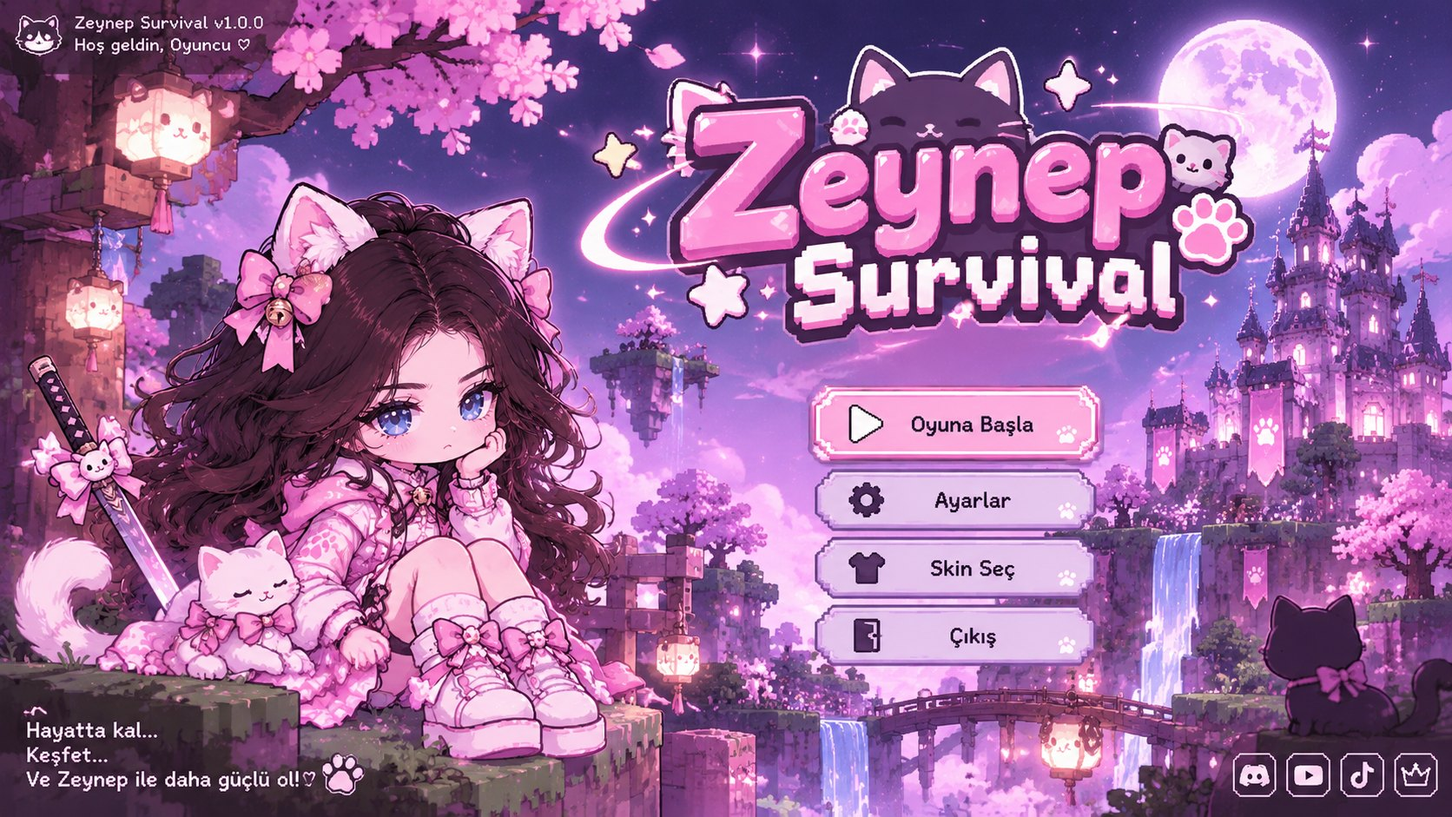
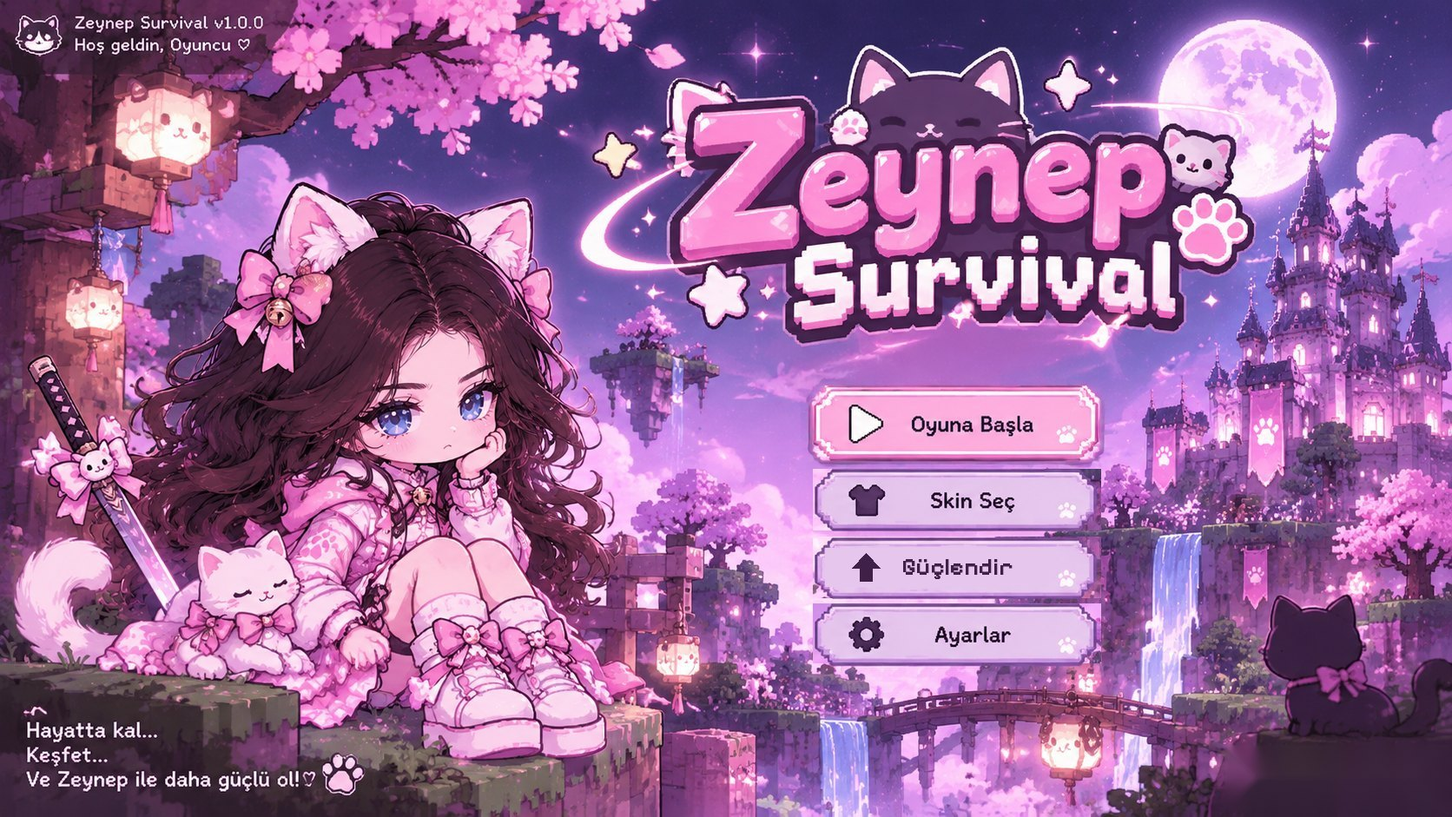
Zeynep Survival: menü (Oyna/Skin/Güçlendir/Ayarlar), yön düzeltmesi, büyük XP kalpleri, 15 dk + 5 dk'da bir patron + 3 dk'da bir yeni yaratık, 4+4 slot, kılıç evrimi
Claude-Session: https://claude.ai/code/session_01NZ7ZfsBb1S5Q1J3hg7XdBE

Changed region(s): [[0.5598, 0.5547, 0.7775, 0.8321], [0.8397, 0.8937, 0.9952, 0.9862]]

diff --git a/survivor.html b/survivor.html
@@ -17,7 +17,7 @@ canvas{position:fixed;inset:0;width:100%;height:100%;display:block}
 .hot{position:absolute;left:55.8%;width:19.8%;border-radius:1.2vmin;transition:transform .12s,box-shadow .12s,background .12s}
 .hot:hover{background:rgba(255,255,255,.18);box-shadow:0 0 22px rgba(255,170,220,.9);transform:scale(1.03)}
 .hot:active{transform:scale(.97)}
-#hPlay{top:47.6%;height:8.6%}#hSet{top:57.8%;height:7%}#hSkin{top:66.1%;height:7%}#hExit{top:74.4%;height:7%}
+#hPlay{top:47.6%;height:8.6%}#hSkin{top:57.8%;height:7%}#hUp{top:66.1%;height:7%}#hSet{top:74.4%;height:7%}
 #tTop{position:absolute;top:2%;right:1.5%;display:flex;gap:.8vmin;flex-wrap:wrap;justify-content:flex-end}
 .pill{background:rgba(255,240,250,.92);color:#b0407a;font-weight:700;font-size:clamp(11px,1.7vmin,18px);padding:.8vmin 1.6vmin;border-radius:99px;border:2px solid #f6a8cf;box-shadow:0 3px 0 #d980ad}
 .pill:active{transform:translateY(2px);box-shadow:0 1px 0 #d980ad}
@@ -89,10 +89,10 @@ canvas{position:fixed;inset:0;width:100%;height:100%;display:block}
 <div id="title">
   <div id="tbox">
     <button class="hot" id="hPlay" aria-label="Oyuna Başla"></button>
-    <button class="hot" id="hSet" aria-label="Ayarlar"></button>
     <button class="hot" id="hSkin" aria-label="Skin Seç"></button>
-    <button class="hot" id="hExit" aria-label="Çıkış"></button>
-    <div id="tTop"><span class="pill" id="tGold">🪙 0</span><button class="pill" id="tUp">⬆ Güçlendir</button></div>
+    <button class="hot" id="hUp" aria-label="Güçlendir"></button>
+    <button class="hot" id="hSet" aria-label="Ayarlar"></button>
+    <div id="tTop"><span class="pill" id="tGold">🪙 0</span><button class="pill" id="hExit">← Siteye dön</button></div>
     <div id="tBest"></div>
   </div>
 </div>
@@ -222,8 +222,8 @@ function bossSprite(src, r) {
   const h = document.createElement('canvas'); h.width = h.height = s; const hg = h.getContext('2d'); hg.drawImage(c, 0, 0); hg.globalCompositeOperation = 'source-atop'; hg.fillStyle = 'rgba(255,255,255,.7)'; hg.fillRect(0, 0, s, s);
   return cache[k] = { c, h, s };
 }
-// pembe kedi patisi
-function paw(g, x, y, s, a = 1) { g.save(); g.globalAlpha *= a; g.fillStyle = '#ff8ac2'; g.strokeStyle = '#fff'; g.lineWidth = Math.max(2, s * .06);
+// pembe kedi patisi (altın = evrim)
+function paw(g, x, y, s, a = 1, gold) { g.save(); g.globalAlpha *= a; g.fillStyle = gold ? '#ffc93c' : '#ff8ac2'; if (gold) { g.shadowColor = '#ffb000'; g.shadowBlur = 16; } g.strokeStyle = '#fff'; g.lineWidth = Math.max(2, s * .06);
   g.beginPath(); g.ellipse(x, y + s * .18, s * .32, s * .26, 0, 0, 7); g.fill(); g.stroke();
   for (const [dx, dy, r] of [[-.36, -.12, .13], [-.13, -.33, .14], [.13, -.33, .14], [.36, -.12, .13]]) { g.beginPath(); g.ellipse(x + dx * s, y + dy * s, r * s, r * s * 1.15, dx * .8, 0, 7); g.fill(); g.stroke(); }
   g.fillStyle = 'rgba(255,255,255,.5)'; g.beginPath(); g.ellipse(x - s * .1, y + s * .1, s * .08, s * .05, -.5, 0, 7); g.fill(); g.restore(); }
@@ -232,26 +232,28 @@ function emo(ch, size) { const k = ch + size; if (emojiC[k]) return emojiC[k]; c
 
 /* =================== AYARLAR =================== */
 const ENEMIES = {
-  slime:  { kind: 'slime',  r: 17, hp: 9,  spd: 62,  dmg: 5,  xp: 1, hues: [330, 200, 140, 50] },
-  ghost:  { kind: 'ghost',  r: 16, hp: 7,  spd: 108, dmg: 5,  xp: 1, hues: [280, 200] },
-  bat:    { kind: 'bat',    r: 14, hp: 6,  spd: 128, dmg: 5,  xp: 1, hues: [275, 300] },
-  mantar: { kind: 'mantar', r: 26, hp: 42, spd: 44,  dmg: 12, xp: 4, hues: [0, 330, 280] },
-  kedi:   { kind: 'kedi',   r: 21, hp: 26, spd: 96,  dmg: 11, xp: 6, hues: [0] },
+  slime:  { kind: 'slime',  r: 17, hp: 18,  spd: 62,  dmg: 5,  xp: 1, hues: [330, 200, 140, 50] },
+  ghost:  { kind: 'ghost',  r: 16, hp: 16,  spd: 108, dmg: 5,  xp: 1, hues: [280, 200] },
+  bat:    { kind: 'bat',    r: 14, hp: 14,  spd: 128, dmg: 5,  xp: 1, hues: [275, 300] },
+  mantar: { kind: 'mantar', r: 26, hp: 90, spd: 44,  dmg: 12, xp: 4, hues: [0, 330, 280] },
+  kedi:   { kind: 'kedi',   r: 21, hp: 60, spd: 96,  dmg: 11, xp: 6, hues: [0] },
 };
 const BOSSES = [
-  { t: 180, ad: 'KELERDY',       img: 'tk_kelerdy.jpg',       hp: 1800,  r: 58, spd: 62, dmg: 16 },
-  { t: 360, ad: 'BEBEK ERDİ',    img: 'tk_erdi_bebek.jpg',    hp: 6000,  r: 64, spd: 76, dmg: 22 },
-  { t: 540, ad: 'DİKTATÖR ERDİ', img: 'tk_erdi_diktator.jpg', hp: 16000, r: 74, spd: 70, dmg: 28 },
+  { t: 300, ad: 'KELERDY',       img: 'tk_kelerdy.jpg',       hp: 5000,  r: 60, spd: 66, dmg: 18 },
+  { t: 600, ad: 'BEBEK ERDİ',    img: 'tk_erdi_bebek.jpg',    hp: 18000, r: 68, spd: 78, dmg: 26 },
+  { t: 900, ad: 'DİKTATÖR ERDİ', img: 'tk_erdi_diktator.jpg', hp: 45000, r: 80, spd: 72, dmg: 34, final: true },
 ];
-const WIN_T = 600;
+const WIN_T = 900;                     // 15 dk: son patron gelir, onu yenince kazanırsın
+// her 3 dakikada yeni yaratık türü
+const NEWTYPES = [{ t: 0, k: 'slime' }, { t: 180, k: 'ghost', ad: '👻 Hayaletler geldi!' }, { t: 360, k: 'bat', ad: '🦇 Yarasalar geldi!' }, { t: 540, k: 'mantar', ad: '🍄 Mantarlar geldi!' }, { t: 720, k: 'kedi', ad: '🐈⬛ Kara kediler geldi!' }];
 const WEAPONS = {
-  katana:  { ad: 'Pembe Katana',   ic: '🗡', d: ['Baktığın yöne pembe kılıç savurur', '+%30 hasar', 'Arkaya da savurur', '+%30 genişlik, daha sık', 'Çift kesiş, +%50 hasar'] },
-  kalp:    { ad: 'Kalp Atışı',     ic: '💗', d: ['En yakın düşmana kalp fırlatır', '+1 kalp', '+%30 hasar, daha hızlı', '+1 kalp, delip geçer', '+2 kalp, çok hızlı'] },
-  ordek:   { ad: 'Ördek Sürüsü',   ic: '🐥', d: ['Etrafında dönen ördekçikler', '+1 ördek', '+%40 hasar, daha hızlı döner', '+1 ördek, daha geniş', '+1 ördek, +%50 hasar'] },
-  pati:    { ad: 'Kedi Patisi',    ic: '🐾', d: ['Rastgele düşmana dev pati iner', '+%30 alan', '+1 pati', '+%50 hasar, daha sık', '+1 pati, kocaman pati'] },
-  sevgi:   { ad: 'Sevgi Halkası',  ic: '💞', d: ['Etrafındaki düşmanlara sürekli hasar', '+%25 alan', '+%50 hasar', '+%25 alan, düşmanları iter', '+%60 hasar, dev halka'] },
-  yildiz:  { ad: 'Yıldız Yağmuru', ic: '⭐', d: ['Rastgele düşmanlara yıldız düşer', '+1 yıldız', '+%40 hasar', '+2 yıldız, daha sık', '+2 yıldız, +%60 hasar'] },
-  kedicik: { ad: 'Kedi Dostu',     ic: '🐱', d: ['Düşmanlara saldıran kedicik', '+%40 hasar', '+1 kedicik', 'Daha hızlı koşar ve ısırır', '+1 kedicik, +%50 hasar'] },
+  katana:  { ad: 'Pembe Katana',   ic: '🗡', d: ['En yakın düşmana pembe kılıç savurur', '2 kılıç: sağa ve sola, daha uzun', '3 kılıç: sağ, sol ve yukarı/aşağı', '4 kılıç: dört yöne, daha büyük ve sık', '✨ EVRİM: Altın Katana — dev, çok hızlı, çok güçlü'] },
+  kalp:    { ad: 'Kalp Atışı',     ic: '💗', d: ['En yakın düşmana kalp fırlatır', '+1 kalp, daha büyük', '+%30 hasar, daha hızlı', '+1 kalp, delip geçer', '✨ EVRİM: Altın Kalpler — 5 dev kalp, delip geçer'] },
+  ordek:   { ad: 'Ördek Sürüsü',   ic: '🐥', d: ['Etrafında dönen ördekçik', '+1 ördek, daha büyük', '+%40 hasar, daha hızlı döner', '+1 ördek, daha geniş', '✨ EVRİM: Altın Ördekler — dev ve çok güçlü'] },
+  pati:    { ad: 'Kedi Patisi',    ic: '🐾', d: ['Rastgele düşmana dev pati iner', '+%30 alan', '+1 pati', '+%50 hasar, daha sık', '✨ EVRİM: Altın Pati — 3 kocaman pati'] },
+  sevgi:   { ad: 'Sevgi Halkası',  ic: '💞', d: ['Etrafındaki düşmanlara sürekli hasar', '+%25 alan', '+%50 hasar', '+%25 alan, düşmanları iter', '✨ EVRİM: Mor Sevgi — dev halka, +%60 hasar'] },
+  yildiz:  { ad: 'Yıldız Yağmuru', ic: '⭐', d: ['Rastgele düşmanlara yıldız düşer', '+1 yıldız, daha büyük', '+%40 hasar', '+2 yıldız, daha sık', '✨ EVRİM: Gökkuşağı Yağmuru — 7 dev yıldız'] },
+  kedicik: { ad: 'Kedi Dostu',     ic: '🐱', d: ['Düşmanlara saldıran kedicik', '+%40 hasar, daha büyük', '+1 kedicik', 'Daha hızlı koşar ve ısırır', '✨ EVRİM: Aslan Kediler — 3 dev kedi'] },
 };
 const PASSIVES = {
   guc:   { ad: 'Kurdele',       ic: '🎀', d: '+%12 hasar' },
@@ -261,7 +263,7 @@ const PASSIVES = {
   sogum: { ad: 'Altın Çan',     ic: '🔔', d: 'Saldırılar %8 daha sık' },
   zirh:  { ad: 'Oyuncak Ayı',   ic: '🧸', d: 'Alınan hasar -2' },
 };
-const MAXLV = 5, MAXW = 6, MAXP = 6;
+const MAXLV = 5, MAXW = 4, MAXP = 4;   // en fazla 4 yetenek + 4 eşya, her biri 5 seviye
 const META = [
   { id: 'can',   ic: '💖', ad: 'Can',        d: '+10 maksimum can',      max: 5, base: 40 },
   { id: 'guc',   ic: '🗡', ad: 'Güç',        d: '+%6 hasar',             max: 5, base: 60 },
@@ -347,7 +349,7 @@ const gkey = (x, y) => ((x / GRID) | 0) * 100000 + ((y / GRID) | 0);
 function startGame() {
   P = { x: 0, y: 0, r: 20, skin: M.skin,
     maxHp: 100 + 10 * mlv('can'), hp: 0, spd: 215 * (1 + .04 * mlv('hiz')), dmgMul: 1 + .06 * mlv('guc'), magnet: 90 * (1 + .15 * mlv('mik')), xpMul: 1 + .08 * mlv('xp'),
-    lv: 1, xp: 0, next: 3, fx: 1, fy: 0, face: 1, inv: 0, revive: mlv('dir'), w: { katana: 1 }, p: {}, cds: {}, hitT: 0, walk: 0 };
+    lv: 1, xp: 0, next: 4, fx: 1, fy: 0, face: 1, inv: 0, revive: mlv('dir'), w: { katana: 1 }, p: {}, cds: {}, hitT: 0, walk: 0 };
   P.hp = P.maxHp;
   enemies = []; projs = []; gems = []; picks = []; fx = []; texts = []; pets = []; T = 0; kills = 0; coins = 0; spawnAcc = 0; bossIdx = 0; curBoss = null; cam = { x: 0, y: 0 }; levelQueue = 0; won = false;
   M.oyun++; saveM();
@@ -365,23 +367,26 @@ const magNow = () => P.magnet * (1 + .35 * pl('mik'));
 /* =================== DÜŞMANLAR =================== */
 function spawnEnemy(type, boss) {
   const a = Math.random() * Math.PI * 2, d = Math.hypot(W, H) / 2 + 60;
-  const x = P.x + Math.cos(a) * d, y = P.y + Math.sin(a) * d, m = 1 + T / 75;
+  const x = P.x + Math.cos(a) * d, y = P.y + Math.sin(a) * d, m = 1 + T / 70 + Math.pow(T / 450, 2) * 2.5;
   let e;
   if (boss) e = { x, y, r: boss.r, hp: boss.hp * (1 + T / 900), spd: boss.spd, dmg: boss.dmg, xp: 60, boss: boss.ad, img: boss.img };
-  else { const K = ENEMIES[type]; e = { x, y, r: K.r, hp: K.hp * m, spd: K.spd * (1 + T / 1500), dmg: K.dmg * (1 + T / 600), xp: K.xp, kind: K.kind, hue: K.hues[(Math.random() * K.hues.length) | 0], ph: Math.random() * 7 }; }
+  else { const K = ENEMIES[type]; e = { x, y, r: K.r, hp: K.hp * m, spd: K.spd * (1 + T / 2500), dmg: K.dmg * (1 + T / 800), xp: K.xp, kind: K.kind, hue: K.hues[(Math.random() * K.hues.length) | 0], ph: Math.random() * 7 }; }
   e.max = e.hp; e.kx = 0; e.ky = 0; e.flash = 0; e.hitCd = {};
   enemies.push(e); return e;
 }
 function spawner(dt) {
-  const rate = .5 + T / 50 + Math.pow(T / 180, 2) * 4;
+  const finalUp = bossIdx >= BOSSES.length;            // son patron sahnede: sadece az sayıda yardımcı
+  const rate = (.8 + T / 28 + Math.pow(T / 240, 2) * 6) * (finalUp ? .25 : 1);
   spawnAcc += rate * dt;
-  const cap = 140 + T / 2.5;
+  const cap = 220 + T / 1.6;
+  const types = NEWTYPES.filter(n => T >= n.t).map(n => n.k);
   while (spawnAcc >= 1) { spawnAcc--; if (enemies.length > cap) continue;
-    const r = Math.random(); let k = 'slime';
-    if (T > 40 && r < .2) k = 'ghost'; if (T > 90 && r > .2 && r < .32) k = 'bat'; if (T > 120 && r > .84) k = 'mantar'; if (T > 270 && r > .94) k = 'kedi';
+    // en yeni tür daha sık, eskiler de gelmeye devam
+    const r = Math.random(), k = r < .35 ? types[types.length - 1] : types[(Math.random() * types.length) | 0];
     spawnEnemy(k); }
-  if (Math.floor((T - dt) / 60) !== Math.floor(T / 60) && T > 5) { const n = 14 + T / 10; for (let i = 0; i < n; i++) { const e = spawnEnemy(T > 240 ? 'bat' : 'slime'); const a = i / n * Math.PI * 2, d = Math.hypot(W, H) / 2 + 40; e.x = P.x + Math.cos(a) * d; e.y = P.y + Math.sin(a) * d; } toast('💢 Etrafın sarıldı!'); }
-  if (bossIdx < BOSSES.length && T >= BOSSES[bossIdx].t) { const b = BOSSES[bossIdx++]; curBoss = spawnEnemy(null, b); toast(`👑 ${b.ad} GELDİ!`); chime([392, 330, 262, 196], 120, 'square', .04); }
+  for (const n of NEWTYPES) if (n.ad && T - dt < n.t && T >= n.t) { toast(n.ad); chime([523, 659, 523, 784], 90, 'square', .03); }
+  if (Math.floor((T - dt) / 60) !== Math.floor(T / 60) && T > 5 && !finalUp) { const n = 20 + T / 8, ty = types[types.length - 1]; for (let i = 0; i < n; i++) { const e = spawnEnemy(ty); const a = i / n * Math.PI * 2, d = Math.hypot(W, H) / 2 + 40; e.x = P.x + Math.cos(a) * d; e.y = P.y + Math.sin(a) * d; } toast('💢 Etrafın sarıldı!'); }
+  if (bossIdx < BOSSES.length && T >= BOSSES[bossIdx].t) { const b = BOSSES[bossIdx++]; curBoss = spawnEnemy(null, b); curBoss.final = !!b.final; toast(b.final ? `👑 SON PATRON: ${b.ad}!` : `👑 ${b.ad} GELDİ!`); chime([392, 330, 262, 196], 120, 'square', .04); }
 }
 
 /* =================== HASAR =================== */
@@ -397,6 +402,7 @@ function kill(e) {
   e.dead = true; kills++;
   gems.push({ x: e.x, y: e.y, v: e.xp, ph: Math.random() * 7 });
   const r = Math.random();
+  if (e.final && !won) { won = true; setTimeout(() => { if (state === 'play' || state === 'lvup') gameOver(true); }, 1200); }
   if (e.boss) { picks.push({ x: e.x, y: e.y, k: 'sandik' }); for (let i = 0; i < 14; i++) picks.push({ x: e.x + (Math.random() - .5) * 100, y: e.y + (Math.random() - .5) * 100, k: 'coin' }); if (e === curBoss) curBoss = null; chime([523, 659, 784, 1046, 1318], 90); }
   else if (r < .025) picks.push({ x: e.x, y: e.y, k: 'coin' });
   else if (r < .029) picks.push({ x: e.x, y: e.y, k: 'cilek' });
@@ -412,37 +418,41 @@ function onScreen() { return enemies.filter(e => !e.dead && Math.abs(e.x - P.x) 
 function cdReady(id, base) { P.cds[id] = (P.cds[id] || 0) - DT; if (P.cds[id] > 0) return false; P.cds[id] = base * cdM(); return true; }
 function near(x, y) { const out = []; const cx = (x / GRID) | 0, cy = (y / GRID) | 0; for (let i = -1; i <= 1; i++) for (let j = -1; j <= 1; j++) { const a = grid.get((cx + i) * 100000 + (cy + j)); if (a) for (const e of a) out.push(e); } return out; }
 const aoe = (x, y, rad, dmg, push) => { for (const e of enemies) { if (e.dead) continue; const dx = e.x - x, dy = e.y - y, d = Math.hypot(dx, dy) || 1; if (d < rad + e.r) hurt(e, dmg, dx / d * push, dy / d * push); } };
-function katanaHit(dmg, reach, dirs) {
-  for (const s of dirs) { const dx = P.face * s; fx.push({ k: 'slash', x: P.x, y: P.y, dx, w: reach, t: .25 });
-    for (const e of enemies) { if (e.dead) continue; const rx = (e.x - P.x) * dx, ry = Math.abs(e.y - P.y); if (rx > -15 && rx < reach + e.r && ry < 60 + e.r) hurt(e, dmg, dx * 110, 0); } }
-  snd(1200, .12, 'sine', .03, .5);
+const KAT = { dmg: [0, 20, 24, 28, 32, 46], reach: [0, 140, 160, 175, 195, 250], cd: [0, 1.1, 1.0, .95, .85, .6], wide: [0, 55, 60, 66, 72, 95] };
+function katanaHit(l) {
+  const t = nearest(300), sx = t ? (t.x >= P.x ? 1 : -1) : P.face, sy = t ? (t.y >= P.y ? 1 : -1) : 1;
+  // seviye = kılıç sayısı (en çok 4): sağ/sol, sonra yukarı/aşağı
+  const dirs = [[sx, 0], [-sx, 0], [0, sy], [0, -sy]].slice(0, Math.min(4, l));
+  const reach = KAT.reach[l], wide = KAT.wide[l], dmg = KAT.dmg[l], gold = l >= 5;
+  for (const [dx, dy] of dirs) { fx.push({ k: 'slash', x: P.x, y: P.y - 8, dx, dy, w: reach, h: wide, gold, t: .25 });
+    for (const e of enemies) { if (e.dead) continue; const ex = e.x - P.x, ey = e.y - P.y + 8, along = ex * dx + ey * dy, side = Math.abs(ex * dy - ey * dx);
+      if (along > -15 && along < reach + e.r && side < wide + e.r) hurt(e, dmg, dx * 120, dy * 120); } }
+  snd(gold ? 900 : 1200, .12, 'sine', .03, .5);
 }
 let katanaQ = 0;
 function weapons(dt) {
   const L = P.w;
-  if (L.katana) { const l = L.katana, dmg = [0, 15, 20, 20, 20, 30][l], reach = l >= 4 ? 170 : 135, dirs = l >= 3 ? [1, -1] : [1];
-    if (katanaQ > 0) { katanaQ -= dt; if (katanaQ <= 0) katanaHit(dmg, reach, dirs); }
-    if (cdReady('katana', l >= 4 ? 1.0 : 1.25)) { katanaHit(dmg, reach, dirs); if (l >= 5) katanaQ = .18; } }
+  if (L.katana) { const l = L.katana; if (cdReady('katana', KAT.cd[l])) katanaHit(l); }
   if (L.kalp) { const l = L.kalp; if (cdReady('kalp', [0, .9, .85, .75, .7, .55][l])) {
     const n = [0, 1, 2, 2, 3, 5][l], dmg = [0, 12, 12, 16, 16, 20][l], pierce = l >= 4 ? 3 : 1, used = new Set();
     for (let i = 0; i < n; i++) { const t = nearest(700, used) || nearest(700); let ax = P.fx, ay = P.fy; if (t) { used.add(t); ax = t.x - P.x; ay = t.y - P.y; } const d = Math.hypot(ax, ay) || 1, sp = 520;
       const s = (i - (n - 1) / 2) * .1, c = Math.cos(s), si = Math.sin(s);
-      projs.push({ x: P.x, y: P.y - 10, vx: (ax / d * c - ay / d * si) * sp, vy: (ax / d * si + ay / d * c) * sp, r: 10, dmg, pierce, t: 1.4, hit: new Set() }); }
+      projs.push({ x: P.x, y: P.y - 10, vx: (ax / d * c - ay / d * si) * sp, vy: (ax / d * si + ay / d * c) * sp, r: [0, 10, 12, 13, 14, 18][l], sz: [0, 18, 22, 24, 26, 34][l], gold: l >= 5, dmg, pierce: l >= 5 ? 5 : pierce, t: 1.4, hit: new Set() }); }
     snd(1500, .05, 'sine', .015, 1.3); } }
   if (L.sevgi) { const l = L.sevgi, rad = [0, 72, 90, 90, 112, 142][l], dmg = [0, 5, 5, 8, 8, 13][l];
     if (cdReady('sevgi', .45)) for (const e of enemies) { if (e.dead) continue; const dx = e.x - P.x, dy = e.y - P.y, d = Math.hypot(dx, dy) || 1; if (d < rad + e.r) hurt(e, dmg, l >= 4 ? dx / d * 60 : 0, l >= 4 ? dy / d * 60 : 0); } }
-  if (L.ordek) { const l = L.ordek, n = [0, 1, 2, 2, 3, 4][l], rad = l >= 4 ? 108 : 84, dmg = [0, 12, 12, 17, 17, 26][l]; orbitA += dt * (l >= 3 ? 3.6 : 2.7);
+  if (L.ordek) { const l = L.ordek, n = [0, 1, 2, 2, 3, 4][l], rad = l >= 4 ? 108 : 84, dmg = [0, 12, 13, 18, 19, 34][l], hr = [0, 16, 18, 20, 22, 28][l]; orbitA += dt * (l >= 3 ? 3.6 : 2.7);
     for (let i = 0; i < n; i++) { const a = orbitA + i / n * Math.PI * 2, x = P.x + Math.cos(a) * rad, y = P.y + Math.sin(a) * rad;
-      for (const e of near(x, y)) { if (!e.dead && (e.x - x) ** 2 + (e.y - y) ** 2 < (e.r + 16) ** 2 && !(e.hitCd.ordek > T)) { hurt(e, dmg, Math.cos(a) * 120, Math.sin(a) * 120); e.hitCd.ordek = T + .35; } } } }
+      for (const e of near(x, y)) { if (!e.dead && (e.x - x) ** 2 + (e.y - y) ** 2 < (e.r + hr) ** 2 && !(e.hitCd.ordek > T)) { hurt(e, dmg, Math.cos(a) * 120, Math.sin(a) * 120); e.hitCd.ordek = T + .35; } } } }
   if (L.pati) { const l = L.pati; if (cdReady('pati', [0, 2.5, 2.5, 2.3, 1.7, 1.5][l])) {
     const n = l >= 5 ? 3 : l >= 3 ? 2 : 1, list = onScreen(), rad = [0, 55, 72, 72, 72, 105][l], dmg = [0, 28, 28, 28, 42, 50][l];
     for (let i = 0; i < n; i++) { const t = list.length ? list[(Math.random() * list.length) | 0] : null; const tx = t ? t.x : P.x + (Math.random() - .5) * 300, ty = t ? t.y : P.y + (Math.random() - .5) * 300;
-      fx.push({ k: 'patiIn', x: tx, y: ty, r: rad, t: .45, dmg, done: false }); } } }
+      fx.push({ k: 'patiIn', x: tx, y: ty, r: rad, t: .45, dmg, done: false, gold: l >= 5 }); } } }
   if (L.yildiz) { const l = L.yildiz; if (cdReady('yildiz', [0, 2.4, 2.4, 2.4, 1.7, 1.6][l])) {
     const n = [0, 2, 3, 3, 5, 7][l], dmg = [0, 22, 22, 31, 31, 50][l], list = onScreen();
-    for (let i = 0; i < n && list.length; i++) { const e = list.splice((Math.random() * list.length) | 0, 1)[0]; fx.push({ k: 'yildiz', x: e.x, y: e.y, t: .4, e, dmg, done: false }); }
+    for (let i = 0; i < n && list.length; i++) { const e = list.splice((Math.random() * list.length) | 0, 1)[0]; fx.push({ k: 'yildiz', x: e.x, y: e.y, t: .4, e, dmg, done: false, sz: [0, 30, 36, 40, 44, 58][l], rb: l >= 5, hue: Math.random() * 360 }); }
     chime([1568, 2093], 60, 'sine', .02); } }
-  if (L.kedicik) { const l = L.kedicik, n = l >= 5 ? 3 : l >= 3 ? 2 : 1, dmg = [0, 14, 20, 20, 20, 30][l], sp = l >= 4 ? 420 : 320;
+  if (L.kedicik) { const l = L.kedicik, n = l >= 5 ? 3 : l >= 3 ? 2 : 1, dmg = [0, 14, 20, 21, 23, 40][l], sp = l >= 4 ? 420 : 320;
     while (pets.length < n) pets.push({ x: P.x, y: P.y, t: null, cd: 0, face: 1 });
     pets.forEach((pt, i) => { pt.cd -= dt;
       if (!pt.t || pt.t.dead || Math.hypot(pt.t.x - P.x, pt.t.y - P.y) > 450) pt.t = nearest(380);
@@ -478,7 +488,7 @@ function update(dt) {
   projs = projs.filter(p => p.t > 0);
   for (const f of fx) {
     if (f.k === 'patiIn' && !f.done && f.t < .2) { f.done = true; aoe(f.x, f.y, f.r, f.dmg, 160); snd(160, .2, 'sine', .06, .5); for (let i = 0; i < 4; i++) fx.push({ k: 'kalpcik', x: f.x + (Math.random() - .5) * f.r, y: f.y, vy: -80, t: .6 }); }
-    if (f.k === 'yildiz' && !f.done && f.t < .12) { f.done = true; if (!f.e.dead) hurt(f.e, f.dmg); aoe(f.x, f.y, 30, f.dmg * .3, 40); }
+    if (f.k === 'yildiz' && !f.done && f.t < .12) { f.done = true; if (!f.e.dead) hurt(f.e, f.dmg); aoe(f.x, f.y, f.sz, f.dmg * .3, 40); }
   }
   const mag = magNow(); let got = false;
   for (const g of gems) { const dx = P.x - g.x, dy = P.y - g.y, d = Math.hypot(dx, dy) || 1; if (g.pull || d < mag) { g.pull = true; const s = Math.max(380, 900 - d); g.x += dx / d * s * dt; g.y += dy / d * s * dt; } if (d < P.r + 10) { g.got = true; got = true; addXp(g.v); } }
@@ -495,9 +505,9 @@ function update(dt) {
   enemies = enemies.filter(e => !e.dead);
   for (const f of fx) { f.t -= dt; if (f.k === 'kalpcik') f.y += f.vy * dt; } fx = fx.filter(f => f.t > 0);
   for (const t of texts) { t.t -= dt; t.y -= 40 * dt; } texts = texts.filter(t => t.t > 0);
-  if (T >= WIN_T && !won) { won = true; gameOver(true); }
+  
 }
-function addXp(v) { P.xp += v * P.xpMul; while (P.xp >= P.next) { P.xp -= P.next; P.lv++; P.next = Math.round(3 + (P.lv - 1) * 3 + Math.pow(P.lv - 1, 1.45)); levelQueue++; } if (levelQueue && state === 'play') showLevelUp(); }
+function addXp(v) { P.xp += v * P.xpMul; while (P.xp >= P.next) { P.xp -= P.next; P.lv++; P.next = Math.round(4 + (P.lv - 1) * 4.5 + Math.pow(P.lv - 1, 1.6)); levelQueue++; } if (levelQueue && state === 'play') showLevelUp(); }
 
 /* =================== SEVİYE ATLAMA =================== */
 function choices(n) {
@@ -546,9 +556,11 @@ function draw(dt) {
   const vis = (x, y, r) => Math.abs(x - cam.x) < W / 2 + r && Math.abs(y - cam.y) < H / 2 + r;
   ctx.textAlign = 'center'; ctx.textBaseline = 'middle';
   if (P.w.sevgi) { const l = P.w.sevgi, rad = [0, 72, 90, 90, 112, 142][l]; const g = ctx.createRadialGradient(P.x, P.y, rad * .2, P.x, P.y, rad); g.addColorStop(0, 'rgba(255,150,200,0)'); g.addColorStop(1, 'rgba(255,120,190,.25)'); ctx.fillStyle = g; ctx.beginPath(); ctx.arc(P.x, P.y, rad, 0, 7); ctx.fill();
-    const n = 8 + l * 2; for (let i = 0; i < n; i++) { const a = T * 1.2 + i / n * Math.PI * 2; ctx.fillStyle = i % 2 ? '#ff8ac2' : '#ffc2de'; heartPath(ctx, P.x + Math.cos(a) * rad, P.y + Math.sin(a) * rad - 6, 12); ctx.fill(); } }
-  for (const g of gems) { if (!vis(g.x, g.y, 12)) continue; const s = g.v >= 20 ? 16 : g.v >= 4 ? 13 : 10, b = Math.sin(T * 5 + g.ph) * 2;
-    ctx.fillStyle = g.v >= 20 ? '#ffc93c' : g.v >= 4 ? '#b48bff' : '#ff7eb6'; heartPath(ctx, g.x, g.y - s / 2 + b, s); ctx.fill(); ctx.strokeStyle = '#fff'; ctx.lineWidth = 2; ctx.stroke(); }
+    const n = 8 + l * 2; for (let i = 0; i < n; i++) { const a = T * 1.2 + i / n * Math.PI * 2; ctx.fillStyle = l >= 5 ? (i % 2 ? '#b07cff' : '#ffc93c') : (i % 2 ? '#ff8ac2' : '#ffc2de'); heartPath(ctx, P.x + Math.cos(a) * rad, P.y + Math.sin(a) * rad - 6, 12 + l * 1.5); ctx.fill(); } }
+  for (const g of gems) { if (!vis(g.x, g.y, 20)) continue; const s = g.v >= 20 ? 26 : g.v >= 4 ? 21 : 17, b = Math.sin(T * 5 + g.ph) * 2.5, pul = 1 + Math.sin(T * 7 + g.ph) * .08;
+    ctx.save(); ctx.translate(g.x, g.y + b); ctx.scale(pul, pul); ctx.shadowColor = g.v >= 20 ? '#ffb000' : g.v >= 4 ? '#9a5cff' : '#ff3d8f'; ctx.shadowBlur = 10;
+    ctx.fillStyle = g.v >= 20 ? '#ffc93c' : g.v >= 4 ? '#a978ff' : '#ff5ea6'; heartPath(ctx, 0, -s / 2, s); ctx.fill(); ctx.shadowBlur = 0; ctx.strokeStyle = '#fff'; ctx.lineWidth = 3; ctx.stroke();
+    ctx.fillStyle = 'rgba(255,255,255,.7)'; ctx.beginPath(); ctx.ellipse(-s * .2, -s * .22, s * .1, s * .07, -.6, 0, 7); ctx.fill(); ctx.restore(); }
   for (const k of picks) if (vis(k.x, k.y, 30)) { const e = { coin: '🪙', cilek: '🍓', balik: '🐟', sevgi: '💝', sandik: '🎁' }[k.k], s = k.k === 'sandik' ? 38 : 24, c = emo(e, s); ctx.drawImage(c, k.x - c.width / 2, k.y - c.height / 2 + Math.sin(T * 4 + k.x) * 3); }
   for (const f of fx) if (f.k === 'patiIn') { const k = 1 - f.t / .45; ctx.fillStyle = `rgba(255,120,180,${.15 + k * .25})`; ctx.beginPath(); ctx.arc(f.x, f.y, f.r, 0, 7); ctx.fill(); ctx.strokeStyle = 'rgba(255,255,255,.7)'; ctx.lineWidth = 3; ctx.setLineDash([8, 8]); ctx.stroke(); ctx.setLineDash([]); }
   const vEn = enemies.filter(e => vis(e.x, e.y, e.r * 1.4)).sort((a, b) => a.y - b.y);
@@ -558,23 +570,25 @@ function draw(dt) {
     const sq = e.boss ? 1 : 1 + Math.sin(T * 9 + e.ph) * .06, by = e.kind === 'ghost' || e.kind === 'bat' ? Math.sin(T * 6 + e.ph) * 4 : 0;
     ctx.save(); ctx.translate(e.x, e.y + by); ctx.scale((e.boss ? 1 : e.dir || 1) * (2 - sq), sq); ctx.drawImage(e.flash > 0 ? s.h : s.c, -s.s / 2, -s.s / 2); ctx.restore();
   }
-  for (const pt of pets) { const c = emo('🐱', 30); ctx.save(); ctx.translate(pt.x, pt.y + Math.sin(T * 14) * 2); ctx.scale(pt.face, 1); ctx.drawImage(c, -c.width / 2, -c.height / 2); ctx.restore(); }
+  for (const pt of pets) { const kl = P.w.kedicik || 1, c = emo(kl >= 5 ? '🦁' : '🐱', [0, 28, 32, 34, 36, 46][kl]); ctx.save(); ctx.translate(pt.x, pt.y + Math.sin(T * 14) * 2); ctx.scale(pt.face, 1); ctx.drawImage(c, -c.width / 2, -c.height / 2); ctx.restore(); }
   const sk = img(skinSrc(P.skin)), hh = 108;
   ctx.fillStyle = 'rgba(120,60,100,.22)'; ctx.beginPath(); ctx.ellipse(P.x, P.y + 26, 24, 8, 0, 0, 7); ctx.fill();
   if (sk.complete && sk.naturalWidth) { const ww = hh * sk.width / sk.height, bob = P.moving ? Math.abs(Math.sin(P.walk)) * 4 : Math.sin(T * 3) * 1.5, sq = P.moving ? 1 + Math.sin(P.walk * 2) * .03 : 1;
-    ctx.save(); ctx.translate(P.x, P.y + 28); ctx.scale(-P.face * sq, 2 - sq); ctx.globalAlpha = P.inv > 0 && Math.floor(T * 20) % 2 ? .45 : 1; ctx.drawImage(sk, -ww / 2, -hh - bob, ww, hh); ctx.restore(); ctx.globalAlpha = 1; }
-  if (P.w.ordek) { const l = P.w.ordek, n = [0, 1, 2, 2, 3, 4][l], rad = l >= 4 ? 108 : 84, im = img('ordek_ikon.png'); if (im.complete) for (let i = 0; i < n; i++) { const a = orbitA + i / n * Math.PI * 2; ctx.save(); ctx.translate(P.x + Math.cos(a) * rad, P.y + Math.sin(a) * rad); ctx.rotate(Math.sin(T * 8 + i) * .25); ctx.drawImage(im, -15, -21, 30, 41); ctx.restore(); } }
-  for (const p of projs) { ctx.save(); ctx.translate(p.x, p.y); ctx.rotate(Math.sin(T * 10 + p.x) * .3); ctx.fillStyle = '#ff5d9e'; heartPath(ctx, 0, -9, 18); ctx.fill(); ctx.strokeStyle = '#fff'; ctx.lineWidth = 2.5; ctx.stroke(); ctx.restore(); }
+    ctx.save(); ctx.translate(P.x, P.y + 28); ctx.scale(P.face * sq, 2 - sq); ctx.globalAlpha = P.inv > 0 && Math.floor(T * 20) % 2 ? .45 : 1; ctx.drawImage(sk, -ww / 2, -hh - bob, ww, hh); ctx.restore(); ctx.globalAlpha = 1; }
+  if (P.w.ordek) { const l = P.w.ordek, n = [0, 1, 2, 2, 3, 4][l], rad = l >= 4 ? 108 : 84, sc = [0, 1, 1.15, 1.25, 1.35, 1.8][l], im = img('ordek_ikon.png'); if (im.complete) for (let i = 0; i < n; i++) { const a = orbitA + i / n * Math.PI * 2; ctx.save(); ctx.translate(P.x + Math.cos(a) * rad, P.y + Math.sin(a) * rad); ctx.rotate(Math.sin(T * 8 + i) * .25); ctx.scale(sc, sc); if (l >= 5) { ctx.shadowColor = '#ffc93c'; ctx.shadowBlur = 18; } ctx.drawImage(im, -15, -21, 30, 41); ctx.restore(); } }
+  for (const p of projs) { ctx.save(); ctx.translate(p.x, p.y); ctx.rotate(Math.sin(T * 10 + p.x) * .3); if (p.gold) { ctx.shadowColor = '#ffb000'; ctx.shadowBlur = 14; } ctx.fillStyle = p.gold ? '#ffc93c' : '#ff5d9e'; heartPath(ctx, 0, -p.sz / 2, p.sz); ctx.fill(); ctx.shadowBlur = 0; ctx.strokeStyle = '#fff'; ctx.lineWidth = 2.5; ctx.stroke(); ctx.restore(); }
   for (const f of fx) {
     if (f.k === 'puf') { const k = 1 - f.t / .35; ctx.fillStyle = `rgba(255,255,255,${.8 * (1 - k)})`; for (let i = 0; i < 6; i++) { const a = i / 6 * Math.PI * 2; ctx.beginPath(); ctx.arc(f.x + Math.cos(a) * f.r * (.4 + k), f.y + Math.sin(a) * f.r * (.4 + k), f.r * .35 * (1 - k * .5), 0, 7); ctx.fill(); } }
     if (f.k === 'kalpcik') { ctx.globalAlpha = Math.min(1, f.t * 2); ctx.fillStyle = '#ff7eb6'; heartPath(ctx, f.x, f.y, 12); ctx.fill(); ctx.globalAlpha = 1; }
-    if (f.k === 'slash') { const k = f.t / .25; ctx.save(); ctx.translate(f.x + f.dx * 10, f.y - 8); ctx.scale(f.dx, 1);
-      const g = ctx.createLinearGradient(0, 0, f.w, 0); g.addColorStop(0, `rgba(255,140,200,${.85 * k})`); g.addColorStop(1, `rgba(255,220,240,${.2 * k})`);
-      ctx.fillStyle = g; ctx.beginPath(); ctx.moveTo(0, -60); ctx.quadraticCurveTo(f.w * 1.15, -30 - (1 - k) * 20, f.w * .95, 40); ctx.quadraticCurveTo(f.w * .7, 0, 0, -60); ctx.fill();
-      ctx.strokeStyle = `rgba(255,255,255,${k})`; ctx.lineWidth = 3; ctx.beginPath(); ctx.moveTo(0, -60); ctx.quadraticCurveTo(f.w * 1.15, -30, f.w * .95, 40); ctx.stroke();
-      ctx.globalAlpha = k; ctx.drawImage(emo('✨', 16), f.w * .8 - 11, -31); paw(ctx, f.w * .55, 8, 16); ctx.restore(); ctx.globalAlpha = 1; }
-    if (f.k === 'patiIn') { const k = Math.min(1, (.45 - f.t) / .25), y = f.y - (1 - k) * 220; paw(ctx, f.x, y, f.r * 1.5, f.t < .1 ? f.t * 10 : 1); }
-    if (f.k === 'yildiz') { const k = Math.min(1, (.4 - f.t) / .28), c = emo('⭐', 34); ctx.drawImage(c, f.x - 120 * (1 - k) - c.width / 2, f.y - 300 * (1 - k) - c.height / 2);
+    if (f.k === 'slash') { const k = f.t / .25, w = f.w, hh = f.h; ctx.save(); ctx.translate(f.x, f.y); ctx.rotate(Math.atan2(f.dy, f.dx));
+      const c1 = f.gold ? `rgba(255,205,70,${.9 * k})` : `rgba(255,140,200,${.85 * k})`, c2 = f.gold ? `rgba(255,250,200,${.25 * k})` : `rgba(255,220,240,${.2 * k})`;
+      const g = ctx.createLinearGradient(0, 0, w, 0); g.addColorStop(0, c1); g.addColorStop(1, c2);
+      if (f.gold) { ctx.shadowColor = '#ffd84a'; ctx.shadowBlur = 20; }
+      ctx.fillStyle = g; ctx.beginPath(); ctx.moveTo(10, -hh); ctx.quadraticCurveTo(w * 1.15, -hh * .5 - (1 - k) * 20, w * .95, hh * .7); ctx.quadraticCurveTo(w * .7, 0, 10, -hh); ctx.fill(); ctx.shadowBlur = 0;
+      ctx.strokeStyle = `rgba(255,255,255,${k})`; ctx.lineWidth = f.gold ? 5 : 3; ctx.beginPath(); ctx.moveTo(10, -hh); ctx.quadraticCurveTo(w * 1.15, -hh * .5, w * .95, hh * .7); ctx.stroke();
+      ctx.globalAlpha = k; ctx.drawImage(emo('✨', f.gold ? 24 : 16), w * .8 - 12, -hh * .55 - 12); paw(ctx, w * .55, hh * .15, f.gold ? 24 : 16); ctx.restore(); ctx.globalAlpha = 1; }
+    if (f.k === 'patiIn') { const k = Math.min(1, (.45 - f.t) / .25), y = f.y - (1 - k) * 220; paw(ctx, f.x, y, f.r * 1.5, f.t < .1 ? f.t * 10 : 1, f.gold); }
+    if (f.k === 'yildiz') { const k = Math.min(1, (.4 - f.t) / .28), c = emo(f.rb ? '🌟' : '⭐', f.sz); if (f.rb) { ctx.save(); ctx.filter = `hue-rotate(${f.hue | 0}deg) saturate(1.6)`; } ctx.drawImage(c, f.x - 120 * (1 - k) - c.width / 2, f.y - 300 * (1 - k) - c.height / 2); if (f.rb) ctx.restore();
       if (f.t < .12) { ctx.fillStyle = `rgba(255,240,150,${f.t * 6})`; ctx.beginPath(); ctx.arc(f.x, f.y, 34, 0, 7); ctx.fill(); } }
     if (f.k === 'isir') { ctx.globalAlpha = Math.min(1, f.t * 5); ctx.drawImage(emo('💢', 18), f.x - 12, f.y - 30); ctx.globalAlpha = 1; }
   }
@@ -611,7 +625,7 @@ function resumeGame() { $('pause').classList.remove('on'); state = 'play'; last 
 $('resume').onclick = resumeGame; $('pauseBtn').onclick = pauseGame;
 $('quit').onclick = () => { $('pause').classList.remove('on'); gameOver(false); };
 function gameOver(win) {
-  state = 'over'; joy = null; $('joy').style.display = 'none';
+  state = 'over'; joy = null; $('joy').style.display = 'none'; $('lvup').classList.remove('on'); $('pause').classList.remove('on');
   const earned = Math.round((coins + kills / 25 + Math.floor(T / 30) * 2 + (win ? 150 : 0)) * (1 + .15 * mlv('altin')));
   M.altin += earned; if (T > M.best) M.best = T; if (kills > M.bestKill) M.bestKill = kills; if (win) M.kazandi++; saveM();
   $('overImg').src = skinSrc(P.skin); $('overImg').style.transform = win ? '' : 'rotate(-8deg)';
@@ -632,7 +646,7 @@ $('toMenu').onclick = showMenu;
 $('hPlay').onclick = startGame;
 $('hExit').onclick = () => location.href = 'index.html';
 $('hSkin').onclick = () => { renderSkins(); $('skins').classList.add('on'); };
-$('tUp').onclick = () => { renderShop(); $('shop').classList.add('on'); };
+$('hUp').onclick = () => { renderShop(); $('shop').classList.add('on'); };
 $('hSet').onclick = () => { renderSet(); $('settings').classList.add('on'); };
 document.querySelectorAll('[data-close]').forEach(b => b.onclick = () => { b.closest('.scr').classList.remove('on'); showMenu(); });
 function showMenu() {
